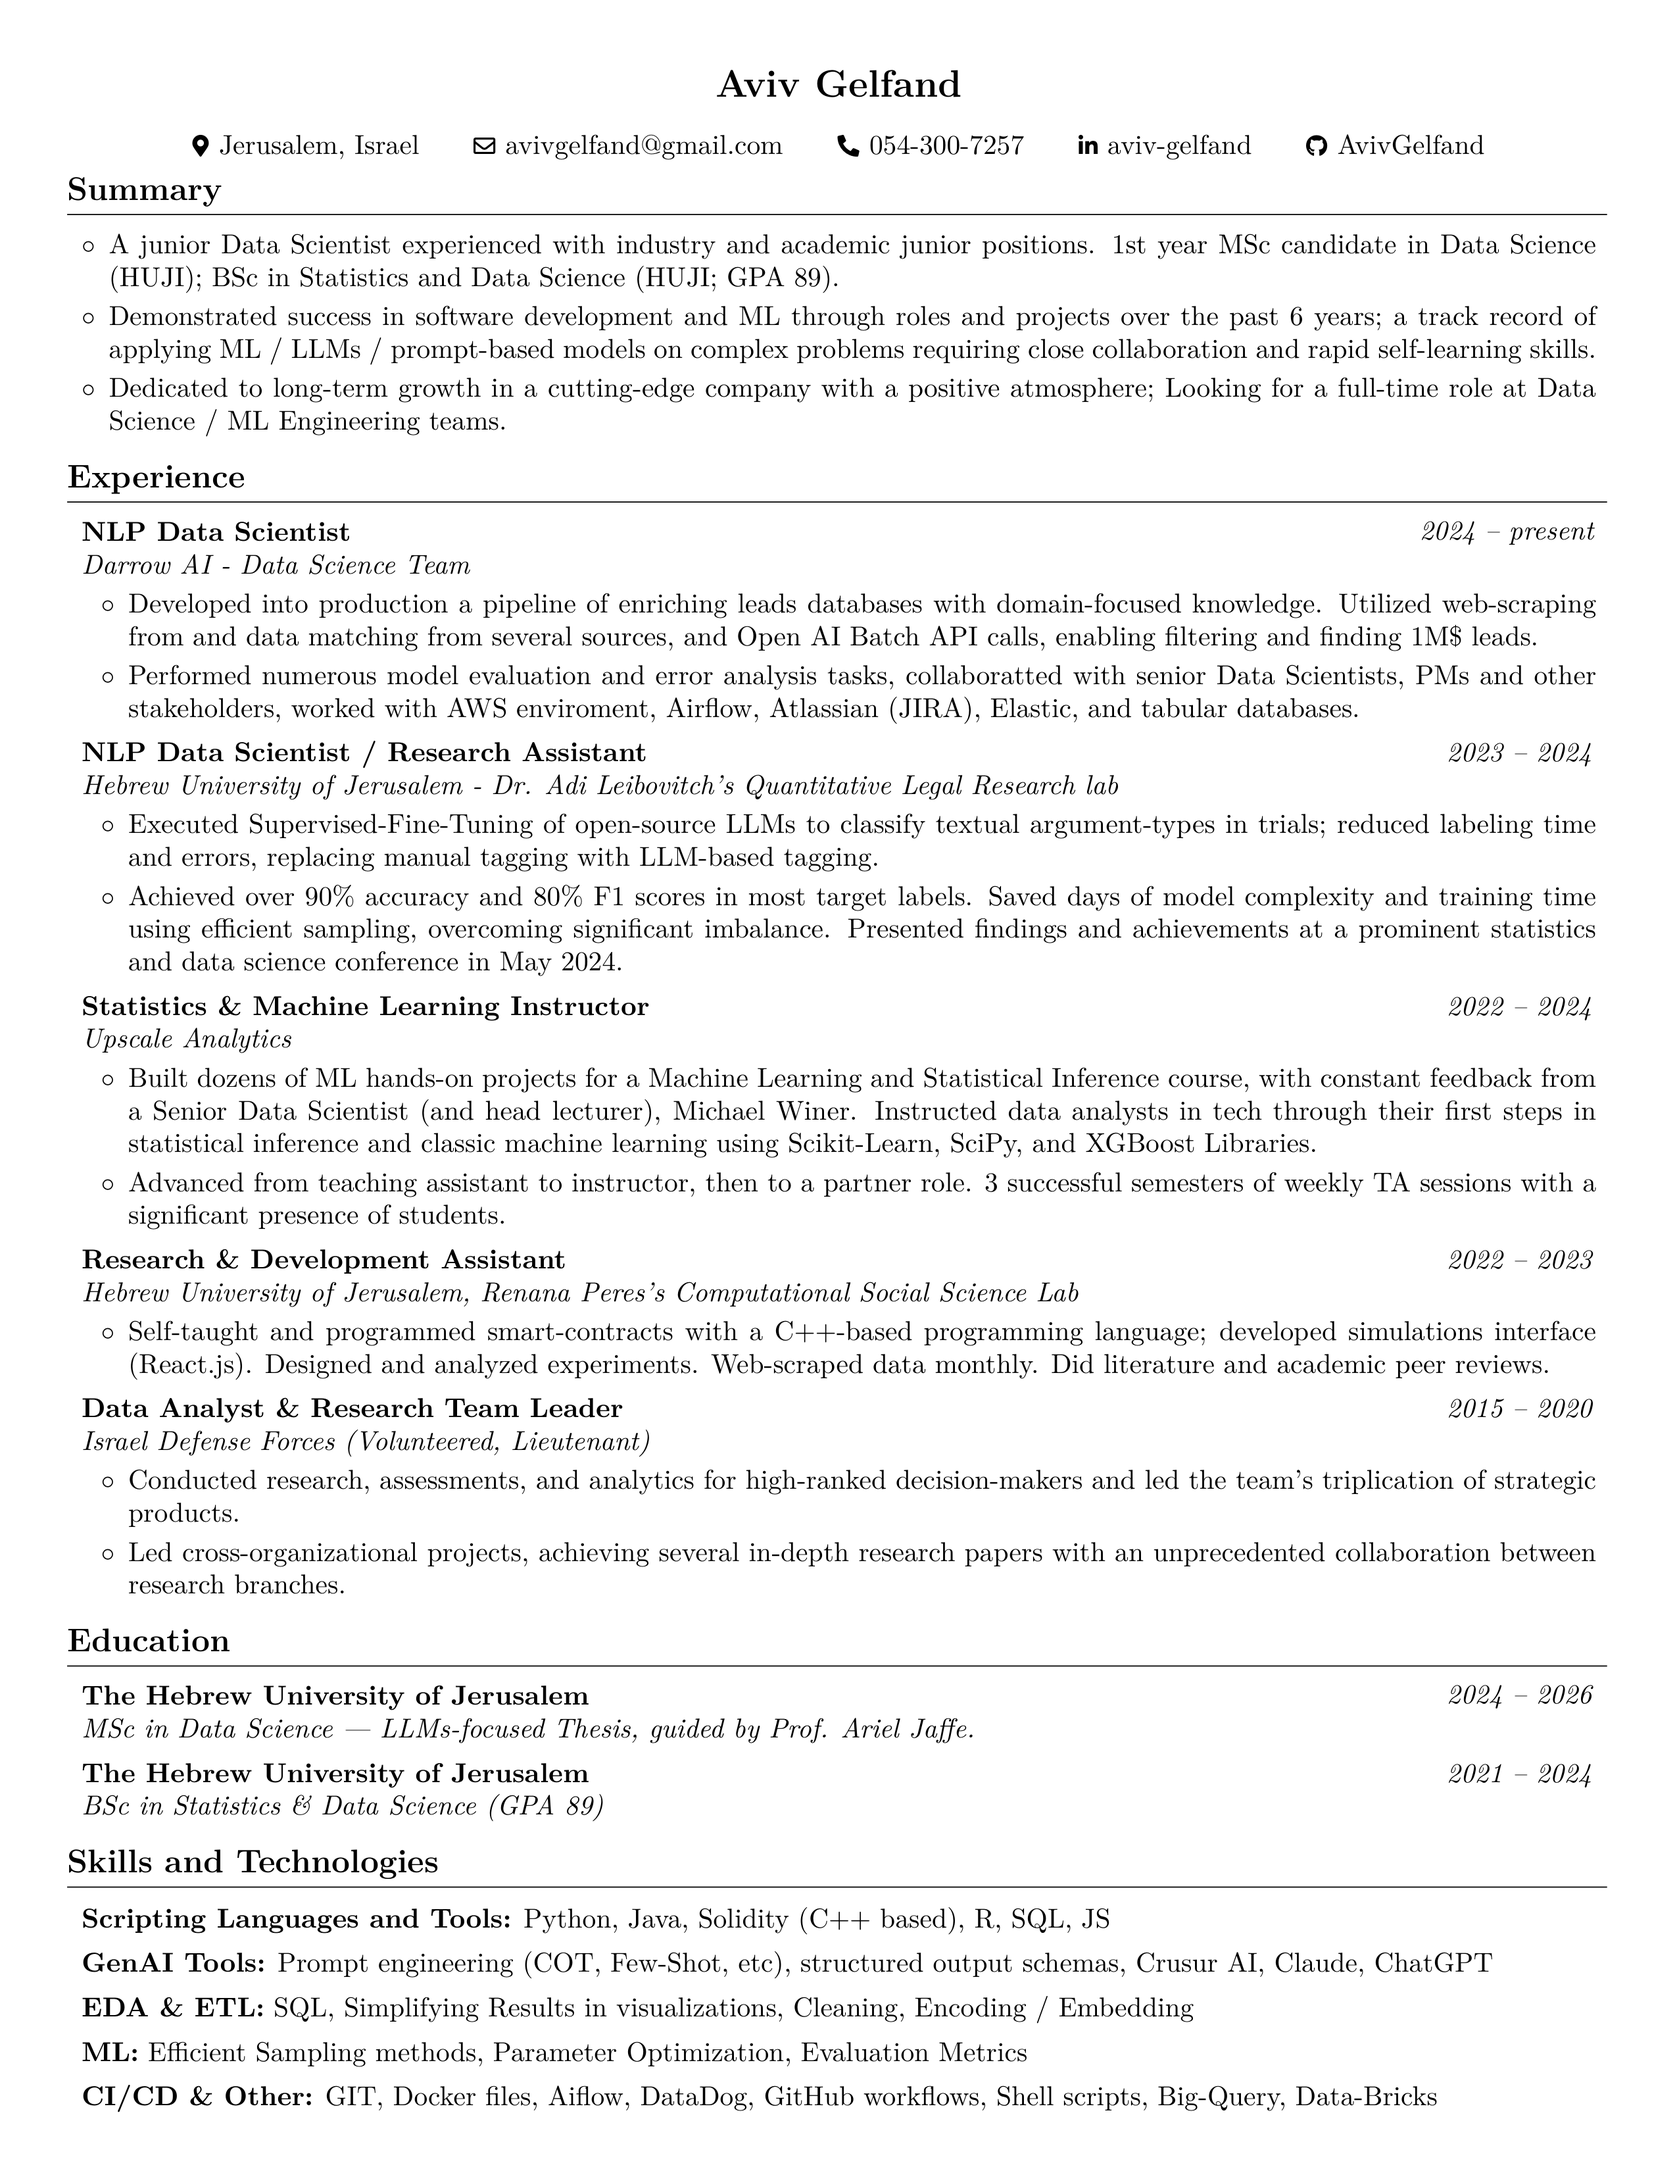
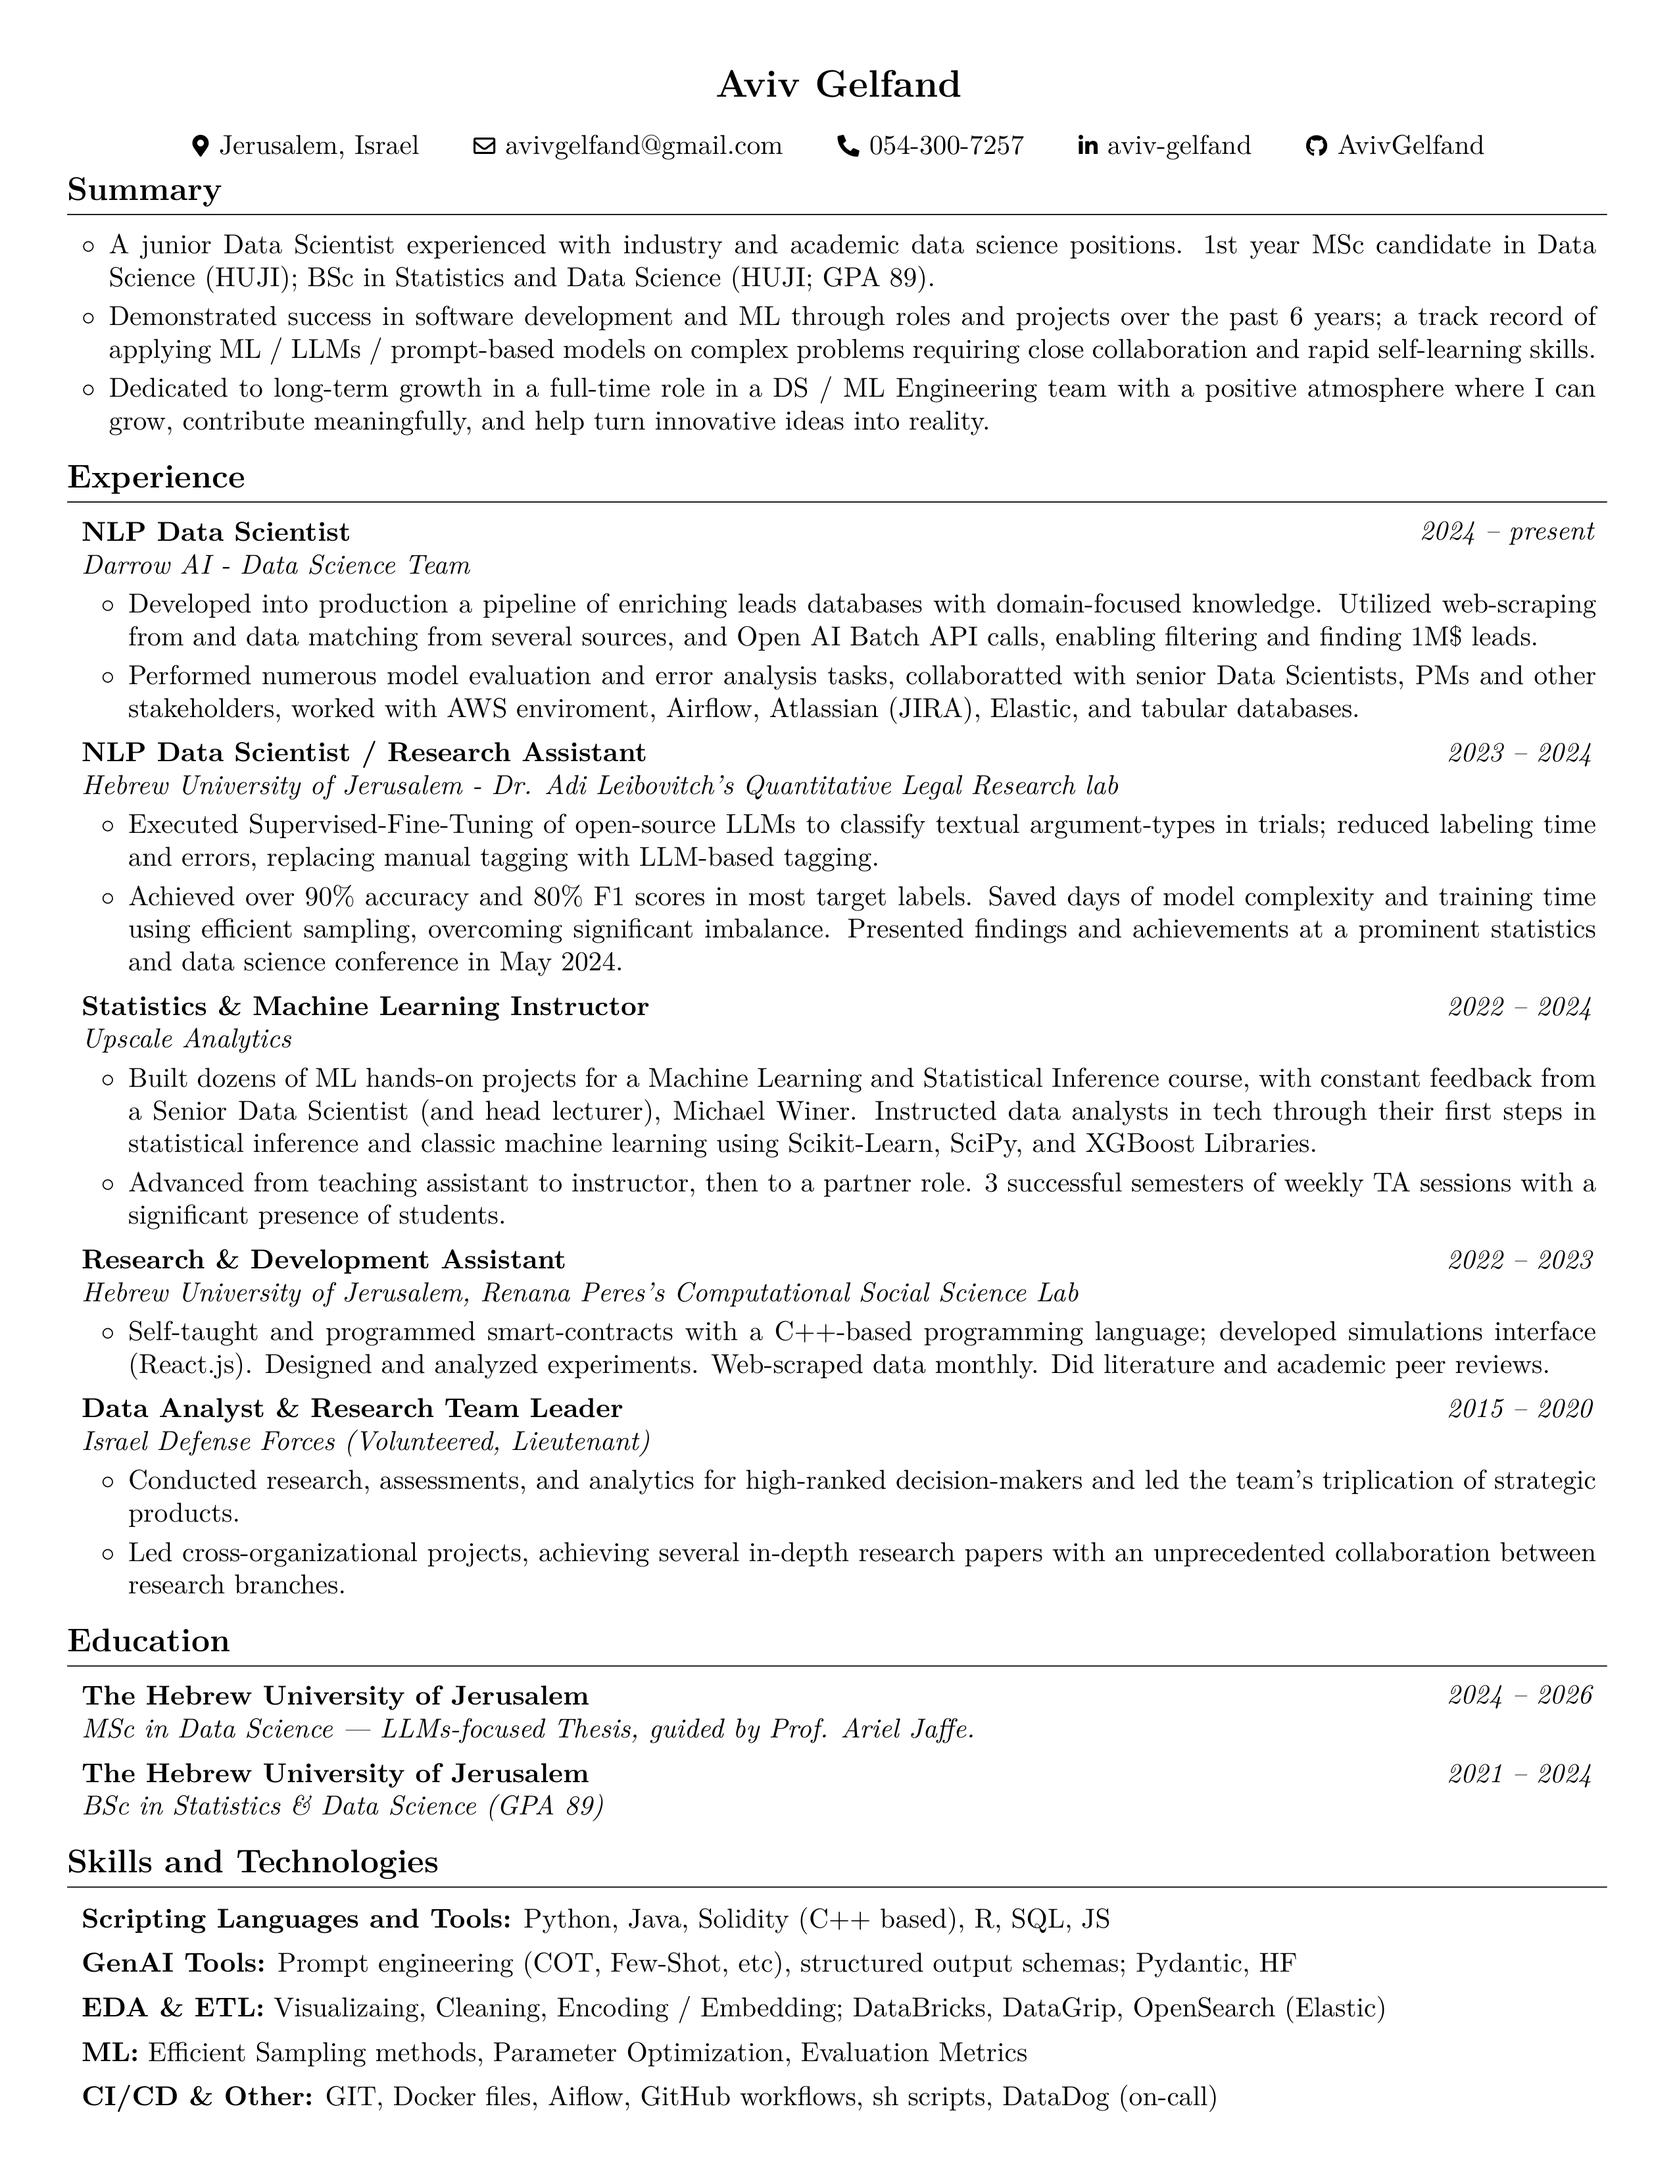
Render the latest CV

diff --git a/Aviv_Gelfand_CV.html b/Aviv_Gelfand_CV.html
@@ -42,9 +42,9 @@
         </ul>
         <h1>Summary</h1>
         <ul>
-        <li>A junior Data Scientist experienced with industry and academic junior positions. 1st year MSc candidate in Data Science (HUJI); BSc in Statistics and Data Science (HUJI; GPA 89).</li>
+        <li>A junior Data Scientist experienced with industry and academic data science positions.  1st year MSc candidate in Data Science (HUJI); BSc in Statistics and Data Science (HUJI; GPA 89).</li>
         <li>Demonstrated success in software development and ML through roles and projects over the past 6 years; a track record of applying ML / LLMs / prompt-based models on complex problems requiring close collaboration and rapid self-learning skills.</li>
-        <li>Dedicated to long-term growth in a cutting-edge company with a positive atmosphere; Looking for a full-time role at Data Science / ML Engineering teams.</li>
+        <li>Dedicated to long-term growth in a full-time role in a DS / ML Engineering team with a positive atmosphere where I can grow, contribute meaningfully, and help turn innovative ideas into reality.</li>
         </ul>
         <h1>Experience</h1>
         <h2>Darrow AI - Data Science Team, NLP Data Scientist</h2>
@@ -88,10 +88,10 @@
         <h1>Skills and Technologies</h1>
         <ul>
         <li>Scripting Languages and Tools: Python, Java, Solidity (C++ based), R, SQL, JS</li>
-        <li>GenAI Tools: Prompt engineering (COT, Few-Shot, etc), structured output schemas, Crusur AI, Claude, ChatGPT</li>
-        <li>EDA &amp; ETL: SQL, Simplifying Results in visualizations, Cleaning, Encoding / Embedding</li>
+        <li>GenAI Tools: Prompt engineering (COT, Few-Shot, etc), structured output schemas; Pydantic, HF</li>
+        <li>EDA &amp; ETL: Visualizaing, Cleaning, Encoding / Embedding; DataBricks, DataGrip, OpenSearch (Elastic)</li>
         <li>ML: Efficient Sampling methods, Parameter Optimization, Evaluation Metrics</li>
-        <li>CI/CD &amp; Other: GIT, Docker files, Aiflow, DataDog, GitHub workflows, Shell scripts, Big-Query, Data-Bricks</li>
+        <li>CI/CD &amp; Other: GIT, Docker files, Aiflow, GitHub workflows, sh scripts, DataDog (on-call)</li>
         </ul>
     </article>
 </body>

diff --git a/Aviv_Gelfand_CV.tex b/Aviv_Gelfand_CV.tex
@@ -181,11 +181,11 @@
         \begin{highlightsforbulletentries}
 
 
-        \item A junior Data Scientist experienced with industry and academic junior positions. 1st year MSc candidate in Data Science (HUJI); BSc in Statistics and Data Science (HUJI; GPA 89).
+        \item A junior Data Scientist experienced with industry and academic data science positions.  1st year MSc candidate in Data Science (HUJI); BSc in Statistics and Data Science (HUJI; GPA 89).
 
         \item Demonstrated success in software development and ML through roles and projects over the past 6 years; a track record of applying ML / LLMs / prompt-based models on complex problems requiring close collaboration and rapid self-learning skills.
 
-        \item Dedicated to long-term growth in a cutting-edge company with a positive atmosphere; Looking for a full-time role at Data Science / ML Engineering teams.
+        \item Dedicated to long-term growth in a full-time role in a DS / ML Engineering team with a positive atmosphere where I can grow, contribute meaningfully, and help turn innovative ideas into reality.
 
 
         \end{highlightsforbulletentries}
@@ -338,13 +338,13 @@
         \vspace{0.15 cm}
 
         \begin{onecolentry}
-            \textbf{GenAI Tools:} Prompt engineering (COT, Few-Shot, etc), structured output schemas, Crusur AI, Claude, ChatGPT
+            \textbf{GenAI Tools:} Prompt engineering (COT, Few-Shot, etc), structured output schemas; Pydantic, HF
         \end{onecolentry}
 
         \vspace{0.15 cm}
 
         \begin{onecolentry}
-            \textbf{EDA \& ETL:} SQL, Simplifying Results in visualizations, Cleaning, Encoding / Embedding
+            \textbf{EDA \& ETL:} Visualizaing, Cleaning, Encoding / Embedding; DataBricks, DataGrip, OpenSearch (Elastic)
         \end{onecolentry}
 
         \vspace{0.15 cm}
@@ -356,7 +356,7 @@
         \vspace{0.15 cm}
 
         \begin{onecolentry}
-            \textbf{CI/CD \& Other:} GIT, Docker files, Aiflow, DataDog, GitHub workflows, Shell scripts, Big-Query, Data-Bricks
+            \textbf{CI/CD \& Other:} GIT, Docker files, Aiflow, GitHub workflows, sh scripts, DataDog (on-call)
         \end{onecolentry}
 
 

diff --git a/README.md b/README.md
@@ -11,9 +11,9 @@
 
 # Summary
 
-- A junior Data Scientist experienced with industry and academic junior positions. 1st year MSc candidate in Data Science (HUJI); BSc in Statistics and Data Science (HUJI; GPA 89).
+- A junior Data Scientist experienced with industry and academic data science positions.  1st year MSc candidate in Data Science (HUJI); BSc in Statistics and Data Science (HUJI; GPA 89).
 - Demonstrated success in software development and ML through roles and projects over the past 6 years; a track record of applying ML / LLMs / prompt-based models on complex problems requiring close collaboration and rapid self-learning skills.
-- Dedicated to long-term growth in a cutting-edge company with a positive atmosphere; Looking for a full-time role at Data Science / ML Engineering teams.
+- Dedicated to long-term growth in a full-time role in a DS / ML Engineering team with a positive atmosphere where I can grow, contribute meaningfully, and help turn innovative ideas into reality.
 # Experience
 
 ## Darrow AI - Data Science Team, NLP Data Scientist
@@ -58,7 +58,7 @@
 # Skills and Technologies
 
 - Scripting Languages and Tools: Python, Java, Solidity (C++ based), R, SQL, JS
-- GenAI Tools: Prompt engineering (COT, Few-Shot, etc), structured output schemas, Crusur AI, Claude, ChatGPT
-- EDA & ETL: SQL, Simplifying Results in visualizations, Cleaning, Encoding / Embedding
+- GenAI Tools: Prompt engineering (COT, Few-Shot, etc), structured output schemas; Pydantic, HF
+- EDA & ETL: Visualizaing, Cleaning, Encoding / Embedding; DataBricks, DataGrip, OpenSearch (Elastic)
 - ML: Efficient Sampling methods, Parameter Optimization, Evaluation Metrics
-- CI/CD & Other: GIT, Docker files, Aiflow, DataDog, GitHub workflows, Shell scripts, Big-Query, Data-Bricks
+- CI/CD & Other: GIT, Docker files, Aiflow, GitHub workflows, sh scripts, DataDog (on-call)
